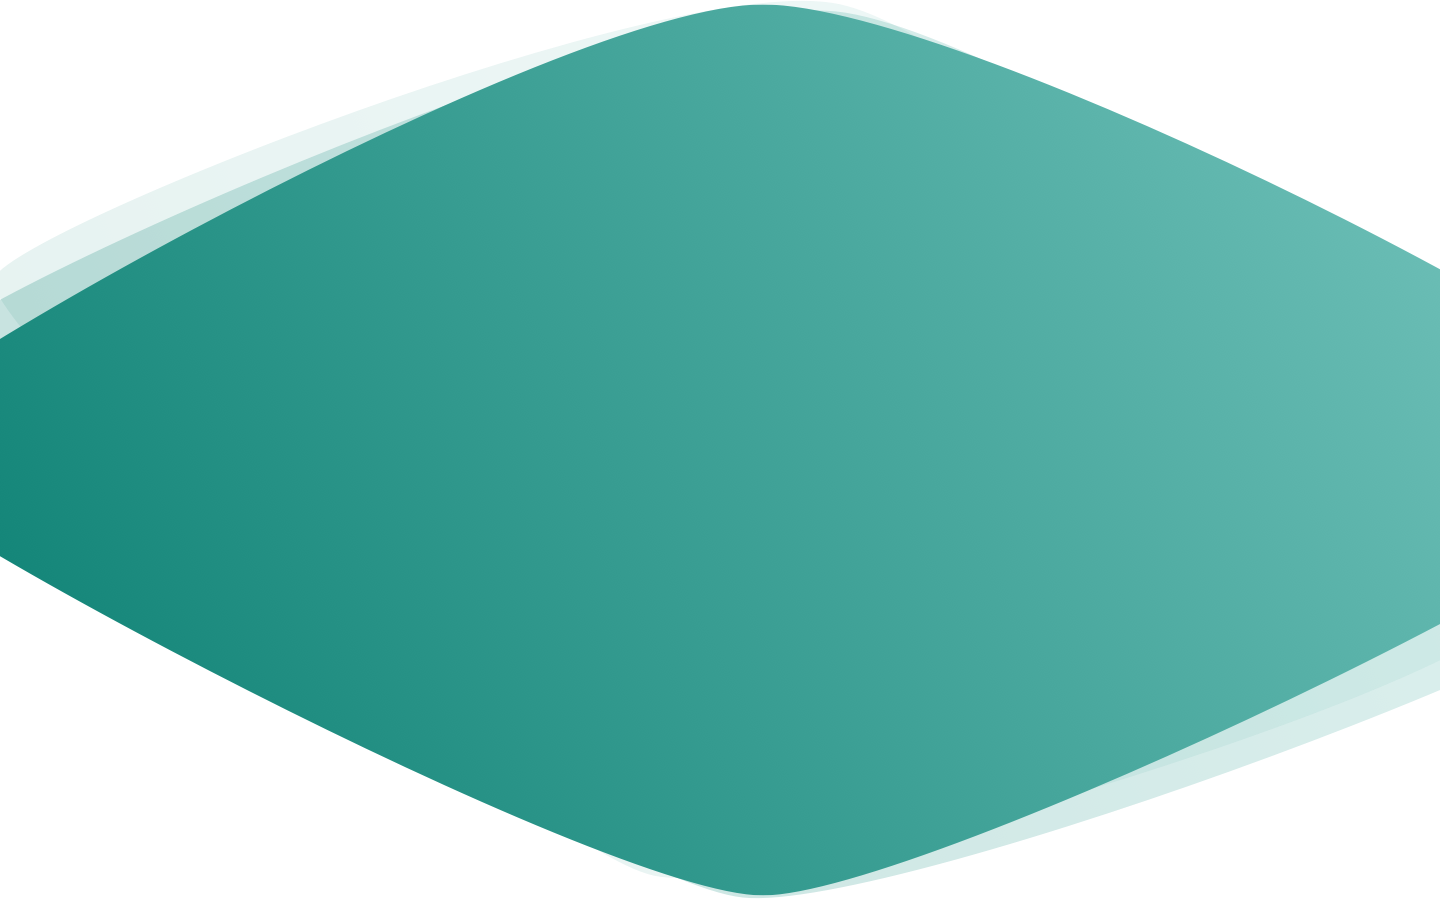
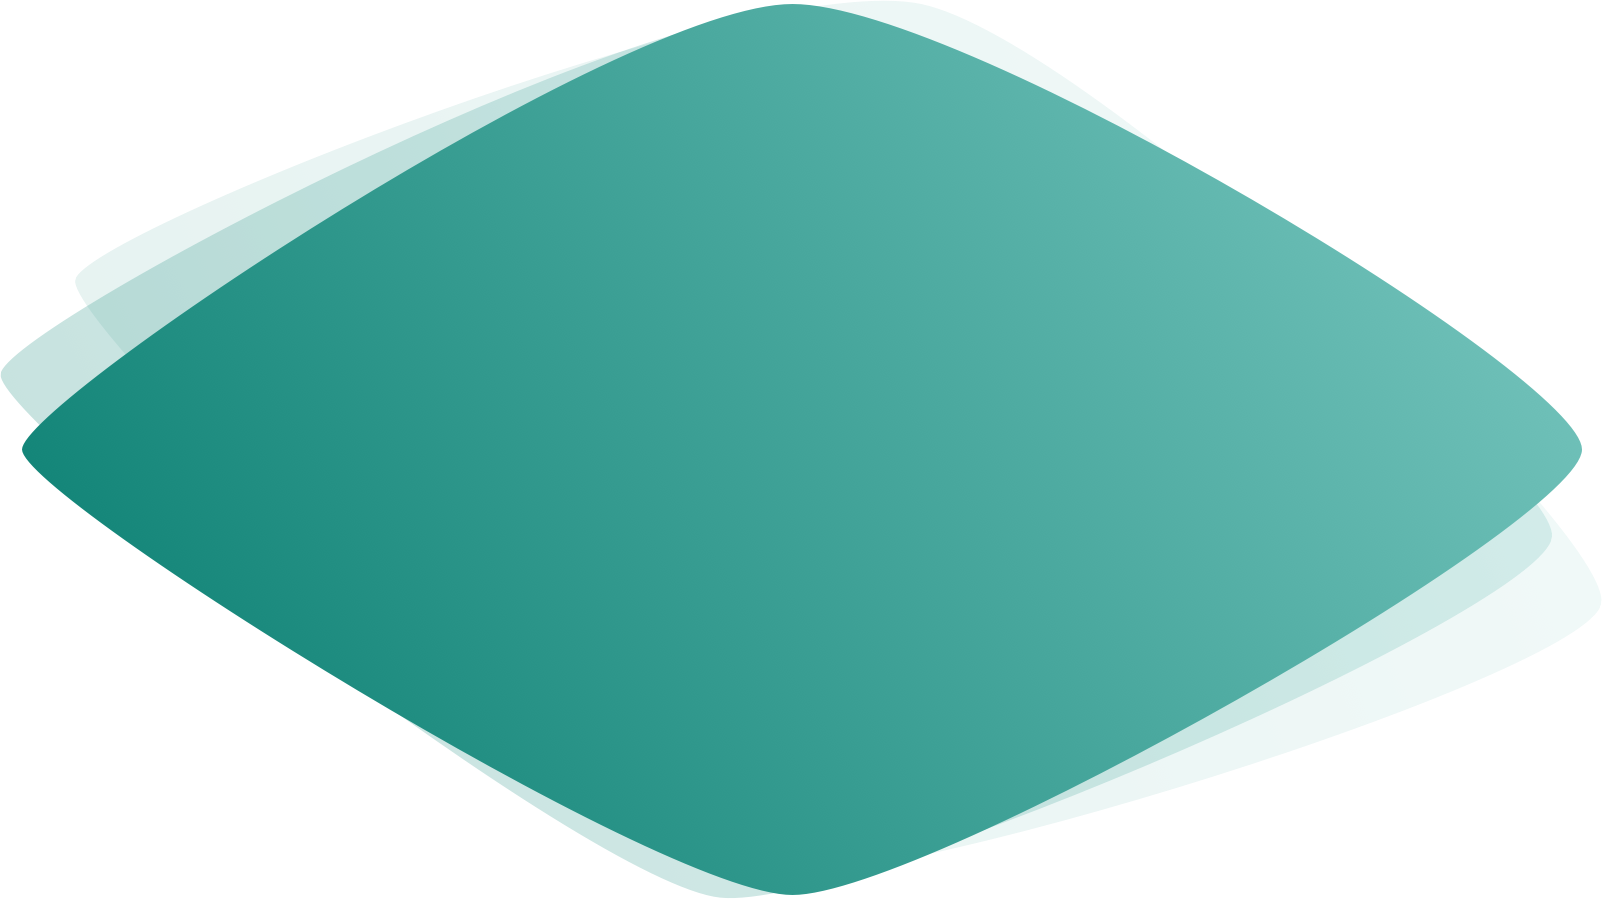
Debug responsivity

diff --git a/index.html b/index.html
@@ -292,7 +292,7 @@
     </div>
   </div>
   <div class="row pt-xl-10 pt-lg-5">
-    <div class="col-lg-10 ml-auto mr-auto">
+    <div class="col-lg-9 ml-auto mr-auto">
       <div class="cases-tabs flex-column flex-lg-row">
         <div class="nav flex-nowrap flex-row flex-lg-column nav-pills pl-5 pl-lg-0" id="v-pills-tab" role="tablist" aria-orientation="vertical">
           <a class="nav-link domiciliation active" id="v-pills-domiciliation-tab" data-toggle="pill" href="#v-pills-domiciliation" role="tab" aria-controls="v-pills-domiciliation" aria-selected="false"></a>

diff --git a/css/styles.css b/css/styles.css
@@ -333,10 +333,13 @@ b, strong {
   background-repeat: no-repeat; }
 
 #study-cases {
-  background-size: contain;
-  background-position: top;
+  background-size: cover;
+  background-position: center top;
   background-repeat: no-repeat;
   background-image: url(../img/Shapes/Background/diamond.png); }
+  @media (min-width: 992px) {
+    #study-cases {
+      background-size: contain; } }
   #study-cases .cases-tabs {
     display: -webkit-box;
     display: -ms-flexbox;
